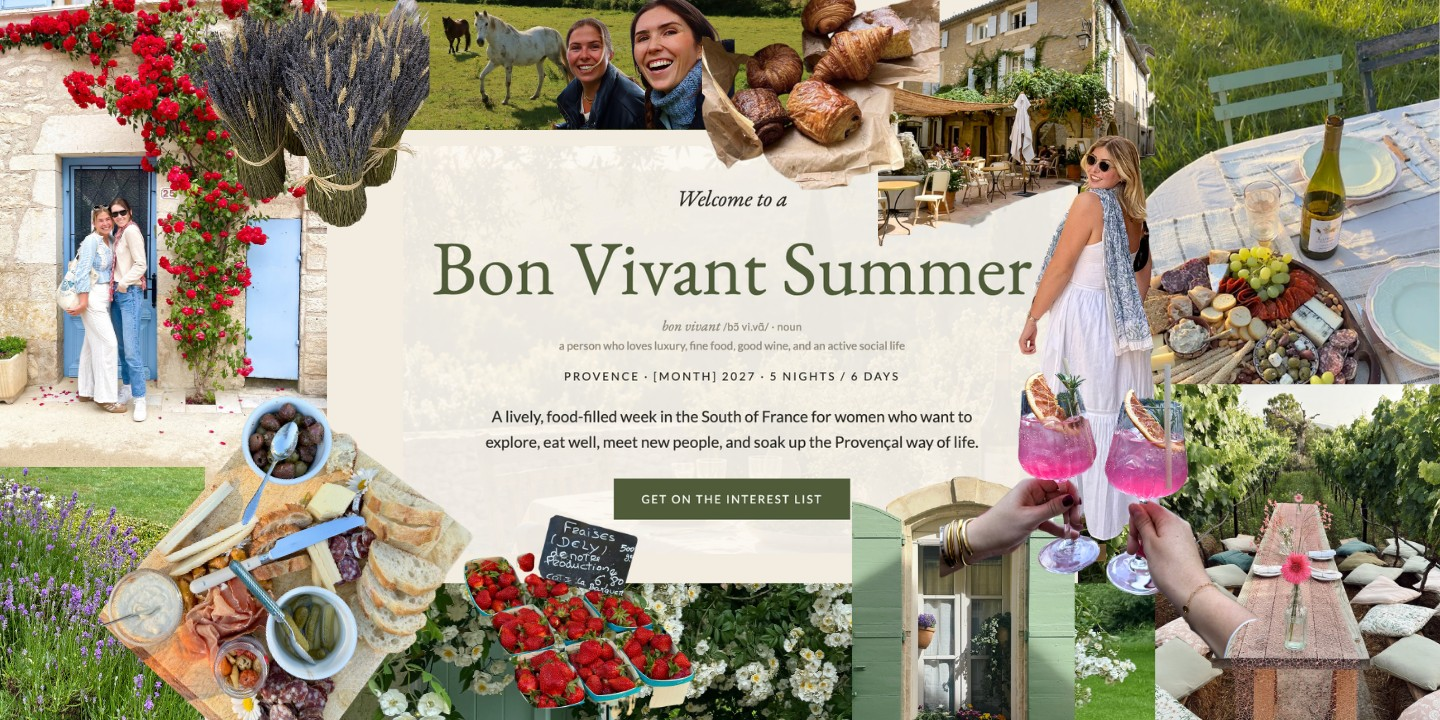
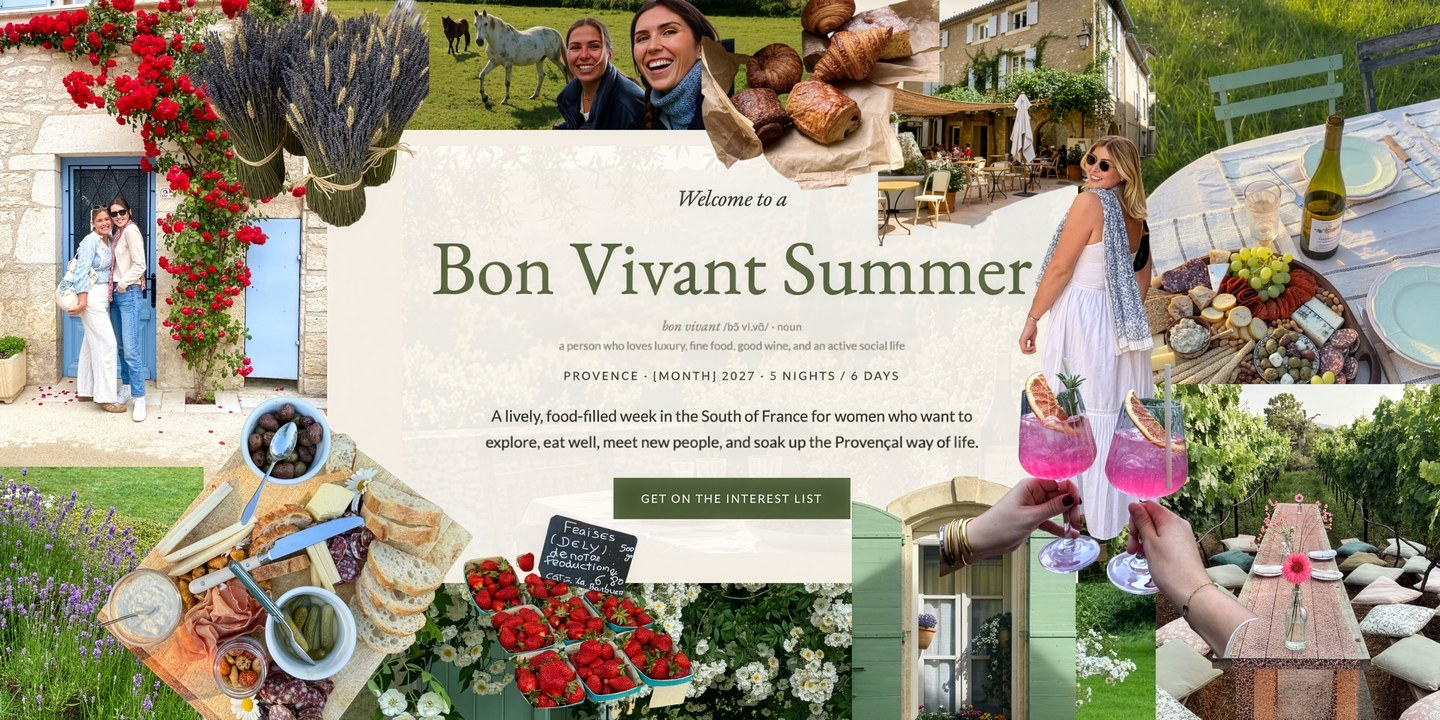
Use sharper hero with corrected text, served at 1440w and 2880w
Claude-Session: https://claude.ai/code/session_016Q8dL6JmJZhik5BirDmPp2

diff --git a/src/pages/RetreatsPage.js b/src/pages/RetreatsPage.js
@@ -31,8 +31,11 @@ function RetreatsPage() {
         <section style={styles.hero}>
           <div style={styles.heroFrame}>
             <picture>
-              <source media="(max-width: 899px)" srcSet="/videos/retreat-hero-720.webp" type="image/webp" />
-              <source srcSet="/videos/retreat-hero.webp" type="image/webp" />
+              <source
+                srcSet="/videos/retreat-hero.webp 1440w, /videos/retreat-hero-2880.webp 2880w"
+                sizes="100vw"
+                type="image/webp"
+              />
               <img
                 src={HERO_IMAGE}
                 width="1440"
